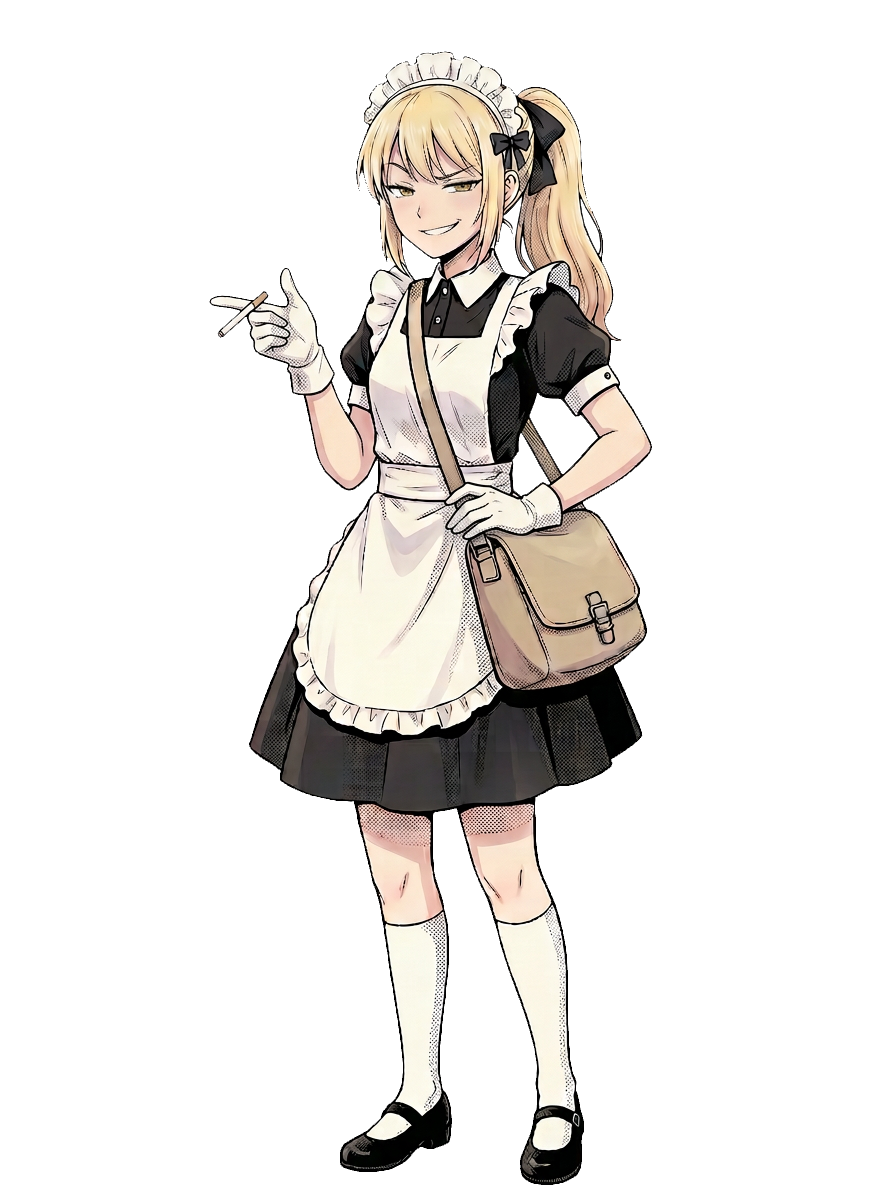
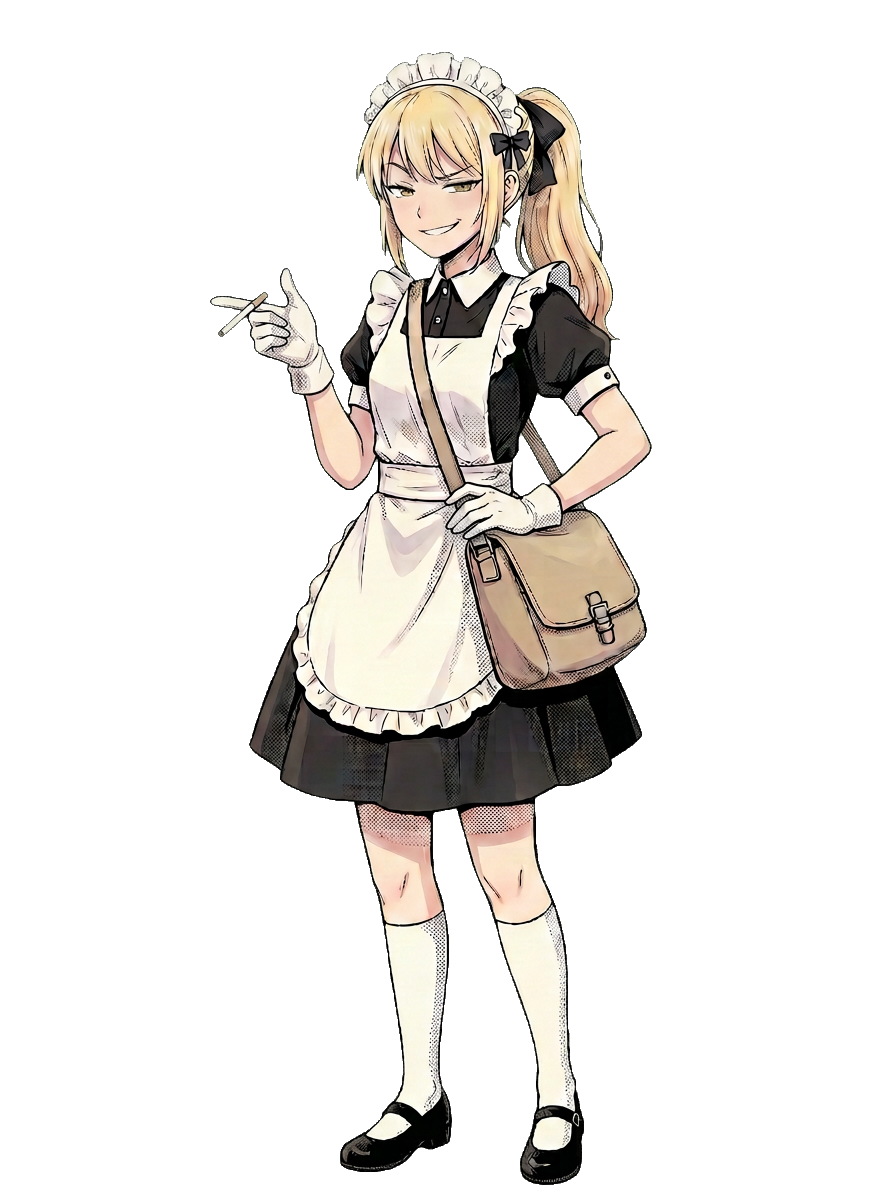
Re-cut Lena x4 and Nika x4 via chroma key; Nika sprites moved to nika/transparent; ASSET_VER _20

diff --git a/index.html b/index.html
@@ -260,34 +260,34 @@
   </div>
 
   <!-- SCRIPT CHAPTERS -->
-  <script src="vn-config.js?v=20261101_19"></script>
-  <script src="vn-core.js?v=20261101_19"></script>
-  <script src="script/_registry.js?v=20261101_19"></script>
-  <script src="script/prologue_1_morning.js?v=20261101_19"></script>
-  <script src="script/prologue_2_city.js?v=20261101_19"></script>
-  <script src="script/prologue_3_barbershop.js?v=20261101_19"></script>
-  <script src="script/prologue_4_depot.js?v=20261101_19"></script>
-  <script src="script/prologue_5_crash.js?v=20261101_19"></script>
-  <script src="script/day1_1_mirael.js?v=20261101_19"></script>
-  <script src="script/day1_2_valeria.js?v=20261101_19"></script>
-  <script src="script/day1_3_evening.js?v=20261101_19"></script>
-  <script src="script/day2_1_quit.js?v=20261101_19"></script>
-  <script src="script/day2_2_zero.js?v=20261101_19"></script>
-  <script src="script/day2_3_walk.js?v=20261101_19"></script>
-  <script src="script/day3_1_office.js?v=20261101_19"></script>
-  <script src="script/day3_2_nika.js?v=20261101_19"></script>
-  <script src="script/day3_3_home.js?v=20261101_19"></script>
-  <script src="script/day4_1_free.js?v=20261101_19"></script>
-  <script src="script/day4_2_barbershop.js?v=20261101_19"></script>
-  <script src="script/day4_3_home.js?v=20261101_19"></script>
-  <script src="script/day5_1_artyom.js?v=20261101_19"></script>
-  <script src="script/day5_2_elevator.js?v=20261101_19"></script>
-  <script src="script/day5_3_night.js?v=20261101_19"></script>
-  <script src="script/day6_1_morning.js?v=20261101_19"></script>
-  <script src="script/day6_2_squeeze.js?v=20261101_19"></script>
-  <script src="script/day6_3_taya.js?v=20261101_19"></script>
-  <script src="script/day7_1_voices.js?v=20261101_19"></script>
-  <script src="script/day7_2_stairs.js?v=20261101_19"></script>
-  <script src="engine.js?v=20261101_19"></script>
+  <script src="vn-config.js?v=20261101_20"></script>
+  <script src="vn-core.js?v=20261101_20"></script>
+  <script src="script/_registry.js?v=20261101_20"></script>
+  <script src="script/prologue_1_morning.js?v=20261101_20"></script>
+  <script src="script/prologue_2_city.js?v=20261101_20"></script>
+  <script src="script/prologue_3_barbershop.js?v=20261101_20"></script>
+  <script src="script/prologue_4_depot.js?v=20261101_20"></script>
+  <script src="script/prologue_5_crash.js?v=20261101_20"></script>
+  <script src="script/day1_1_mirael.js?v=20261101_20"></script>
+  <script src="script/day1_2_valeria.js?v=20261101_20"></script>
+  <script src="script/day1_3_evening.js?v=20261101_20"></script>
+  <script src="script/day2_1_quit.js?v=20261101_20"></script>
+  <script src="script/day2_2_zero.js?v=20261101_20"></script>
+  <script src="script/day2_3_walk.js?v=20261101_20"></script>
+  <script src="script/day3_1_office.js?v=20261101_20"></script>
+  <script src="script/day3_2_nika.js?v=20261101_20"></script>
+  <script src="script/day3_3_home.js?v=20261101_20"></script>
+  <script src="script/day4_1_free.js?v=20261101_20"></script>
+  <script src="script/day4_2_barbershop.js?v=20261101_20"></script>
+  <script src="script/day4_3_home.js?v=20261101_20"></script>
+  <script src="script/day5_1_artyom.js?v=20261101_20"></script>
+  <script src="script/day5_2_elevator.js?v=20261101_20"></script>
+  <script src="script/day5_3_night.js?v=20261101_20"></script>
+  <script src="script/day6_1_morning.js?v=20261101_20"></script>
+  <script src="script/day6_2_squeeze.js?v=20261101_20"></script>
+  <script src="script/day6_3_taya.js?v=20261101_20"></script>
+  <script src="script/day7_1_voices.js?v=20261101_20"></script>
+  <script src="script/day7_2_stairs.js?v=20261101_20"></script>
+  <script src="engine.js?v=20261101_20"></script>
 </body>
 </html>

diff --git a/vn-config.js b/vn-config.js
@@ -60,7 +60,7 @@
       fallback: "neutral"
     },
     nika: {
-      emotions: set(C + "nika_{e}.png", ["happy", "neutral", "sad", "shy", "teasing", "annoyed", "surprised", "bored"]),
+      emotions: set(C + "nika/transparent/nika_{e}.png", ["happy", "neutral", "sad", "shy", "teasing", "annoyed", "surprised", "bored"]),
       aliases: {},
       fallback: "neutral"
     },

diff --git a/engine.js b/engine.js
@@ -1,6 +1,6 @@
 // ДВИЖОК ВИЗУАЛЬНОЙ НОВЕЛЛЫ «НЕ СМОТРИ НА НЕБО» ($WAG ENTERTAINMENT)
 (function () {
-  const ASSET_VER = "20261101_19";
+  const ASSET_VER = "20261101_20";
 
   function withVer(url) {
     if (!url) return "";

diff --git a/docs/production/assets.md b/docs/production/assets.md
@@ -130,7 +130,10 @@
 | Валерия, истинный облик ×9 (`--neutral-despill`) | ✅ 01.11 |
 | Валерия, human ×9 | ✅ 01.11 (amused перегенерирован с требованием светлой кожи; soft_vulnerable: прядь за пальцами восстановлена по оригиналу) |
 | Лена: angry, coffee, happy, neutral, sad → `lena/transparent/` | ✅ 01.11 (вход — RGBA из корня на белом, большие уменьшены до 896×1200) |
-| Лена: snide, tired, surprised, thoughtful, shy | ⏳ (пока в `lena/transparent/` лежат старые копии из корня) |
-| Ника ×8, Дмитрий ×5 | ⏳ |
+| Лена: snide, tired, thoughtful, shy | ✅ 01.11 |
+| Лена: surprised | ⏳ перегенерировать: генератор залил зелёным затенённые пряди за бантом (пока старая копия) |
+| Ника: neutral, bored, happy, sad → `nika/transparent/` | ✅ 01.11 (`--neutral-despill`) |
+| Ника: annoyed (перегенерировать — затемнена кожа), shy, surprised, teasing | ⏳ (пока старые копии из корня) |
+| Дмитрий ×5 | ⏳ |
 | Тая | ждём новый дефолтный спрайт от автора |
 
